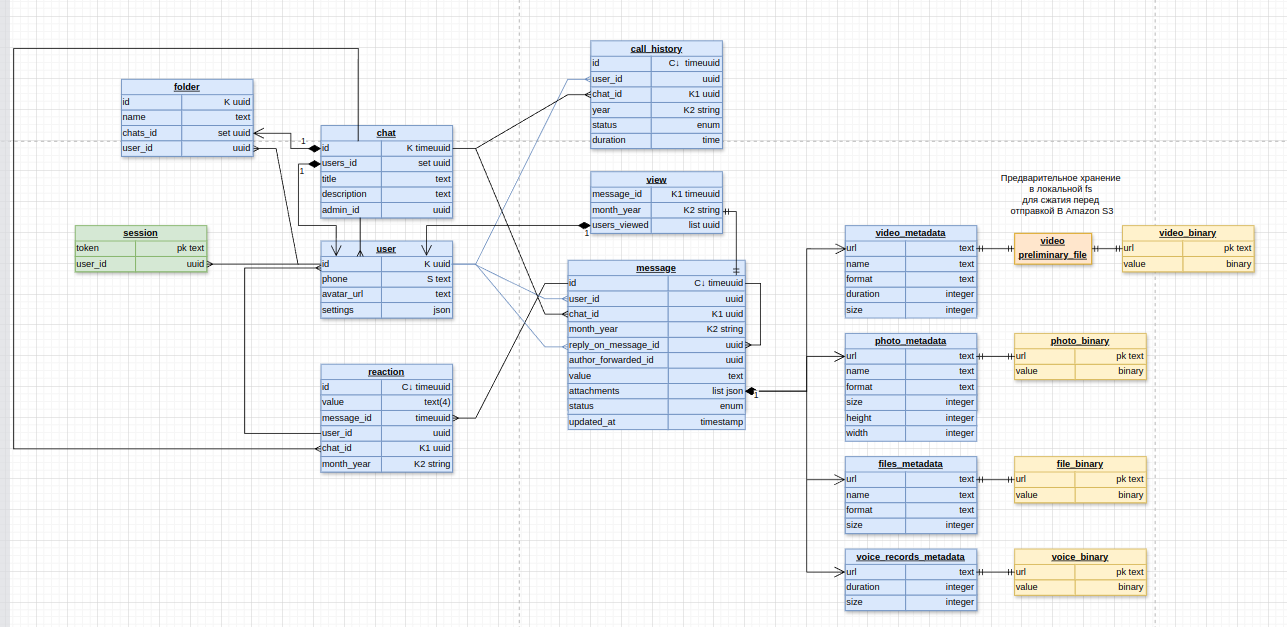
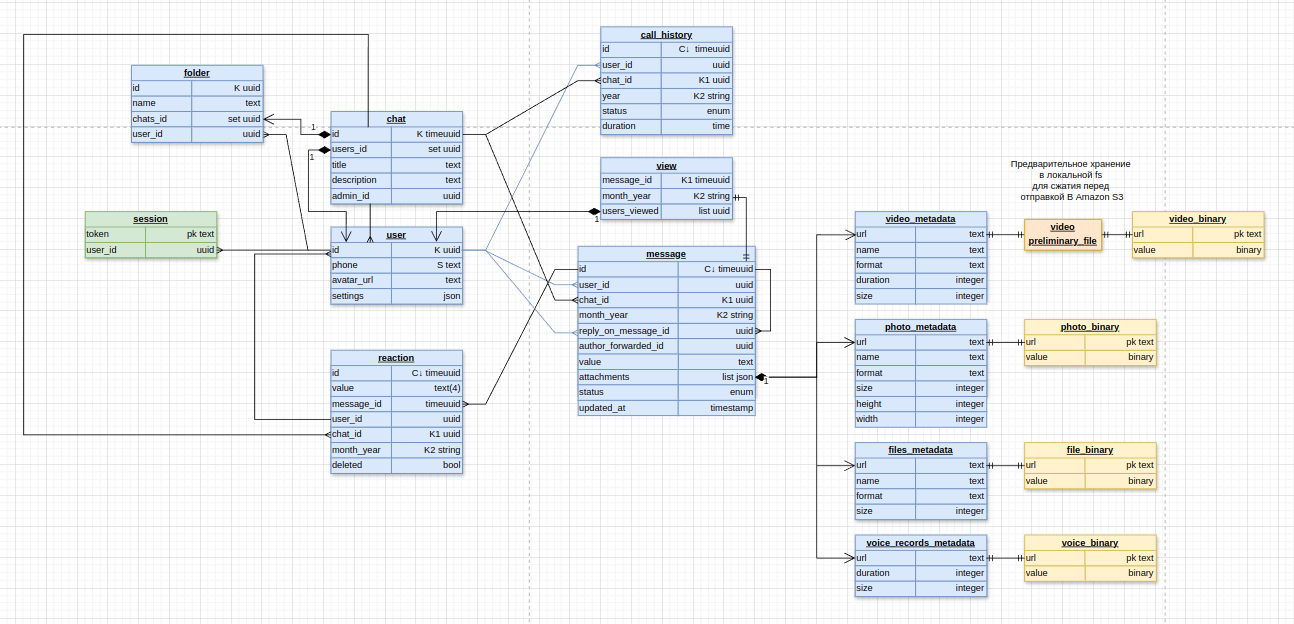
added correct delete for messages and reactions

Changed region(s): [[0.0, 0.0, 0.9946, 1.0]]

diff --git a/README.md b/README.md
@@ -363,7 +363,8 @@ Storage-attached index (обознач. S) - это индекс в Cassandra о
    SELECT * FROM message WHERE chat_id=?
    AND month_year=? AND id = ?
 3. Удалить сообщение в чате по id
-   Либо delete либо добавить поле deleted пока не решил
+   UPDATE message SET value='' AND status=deleted
+   AND attachments={} WHERE id = ?
 4. Добавить сообщение
    INSERT * TO message(id, -//-)
 
@@ -387,7 +388,7 @@ K - message_id + month_year. month_year вместе с id чата они
 1. Получить все новые реакции в чате
    SELECT * FROM reaction WHERE chat_id = ? AND id > ?
 2. Убрать реакцию с сообщения по id реакции
-   Либо delete либо добавить поле deleted пока не решил
+   UPDATE message SET deleted=true WHERE id = ?
 3. Добавить реакцию
    INSERT * TO reaction(id, -//-)
 
